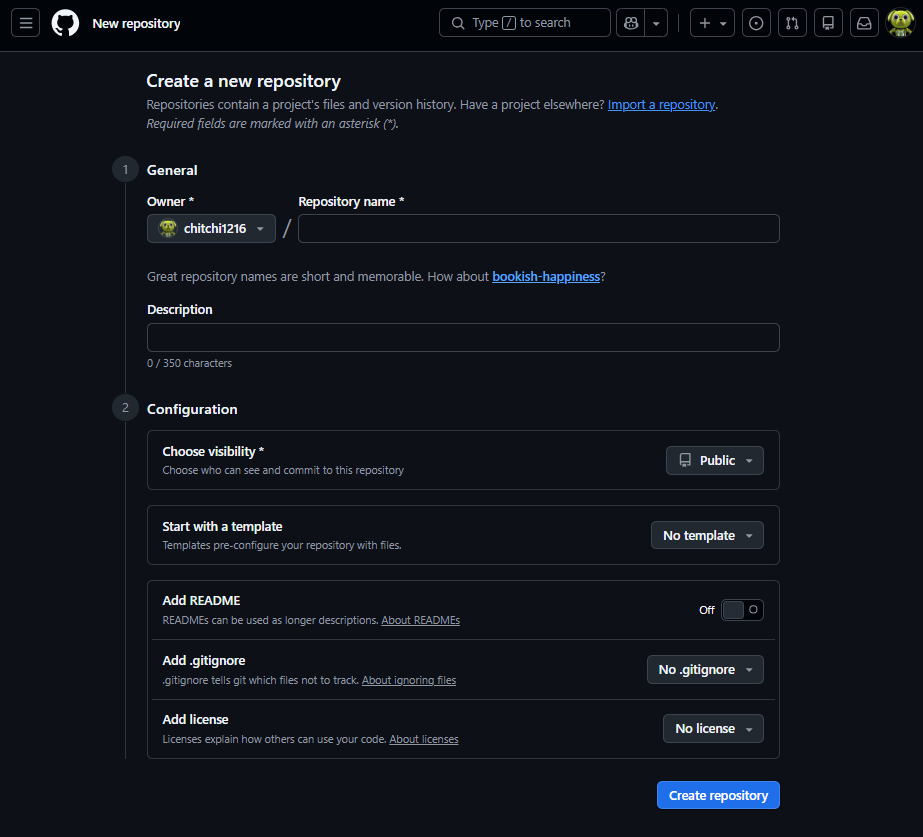
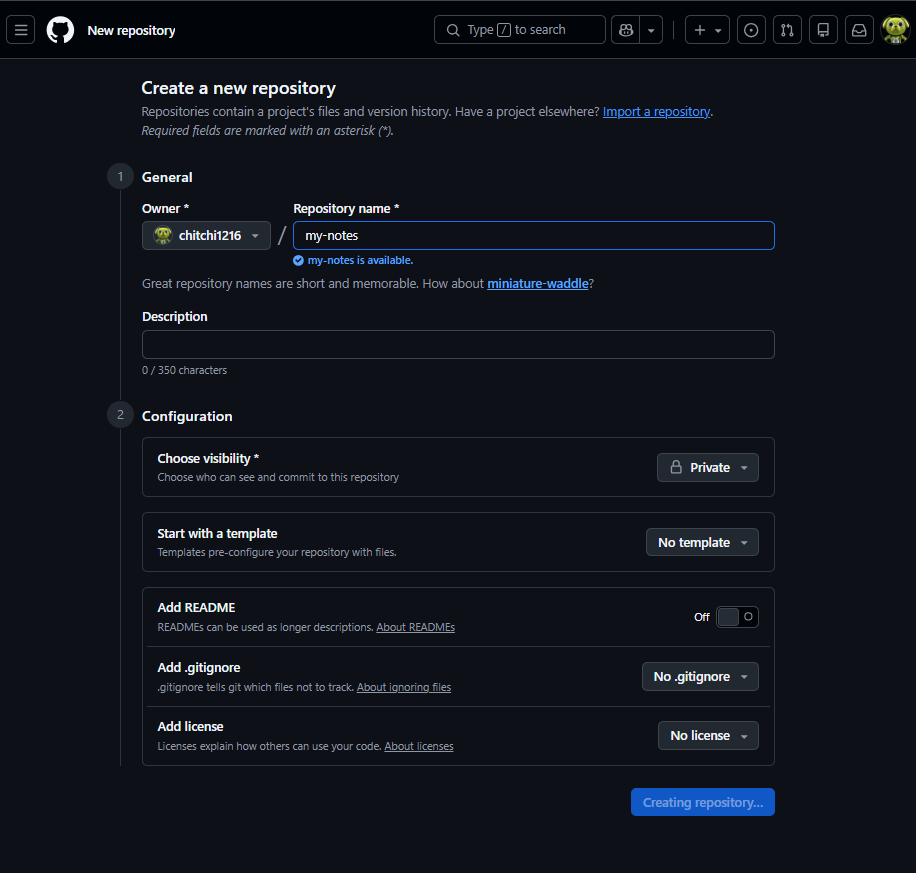
第4章の画面写真を差し替え・追加
- 入力済みの作成画面、作成直後のQuick setup、pushのあとの画面の写真を追加（コミットした人のメールアドレスは塗りつぶし）
- Quick setupの3行のうち git branch -M main は打たなくてよいことを追記
- コミット数の説明を実機の画面に合わせて修正
- 版を0.4.12に更新

Claude-Session: https://claude.ai/code/session_01QYBSeBsVyjWbJLnKnnMHu8

diff --git a/docs/chapter-04.html b/docs/chapter-04.html
@@ -7,7 +7,7 @@
 <link rel="stylesheet" href="style.css">
 </head>
 <body>
-<header class="site"><a class="title" href="index.html">Git と GitHub 入門</a><span class="ver"><!--ver--><a href="https://github.com/chitchi1216/git-github-textbook/blob/main/CHANGELOG.md">版 0.4.11（ドラフト）</a> ・ 2026-10-11 ・ 作成者 <a href="https://github.com/chitchi1216">chitchi1216</a><!--/ver--></span></header>
+<header class="site"><a class="title" href="index.html">Git と GitHub 入門</a><span class="ver"><!--ver--><a href="https://github.com/chitchi1216/git-github-textbook/blob/main/CHANGELOG.md">版 0.4.12（ドラフト）</a> ・ 2026-10-11 ・ 作成者 <a href="https://github.com/chitchi1216">chitchi1216</a><!--/ver--></span></header>
 <main class="wrap">
   <p class="meta">第4章 ／ 目安 70〜90分</p>
   <h1>GitHub と連携する：送る・受け取る</h1>
@@ -137,8 +137,8 @@
     <figcaption>リポジトリの一覧の画面。右側の、青い「<strong>New</strong>」ボタンを押す</figcaption>
   </figure>
   <figure class="shot">
-    <img src="images/ch04-new-repo.png" alt="GitHub の Create a new repository 画面。Repository name、Choose visibility、Add README などの項目がある" onerror="this.parentNode.classList.add('missing')">
-    <figcaption>「Create a new repository」の画面。<code>my-notes</code> と入力し、<strong>「Choose visibility」を「Private」に変えて</strong>、<strong>「Add README」は「Off」のまま</strong>、右下の「Create repository」を押す。（この写真は、公開範囲が初期値の「Public」のままです）</figcaption>
+    <img src="images/ch04-new-repo.png" alt="Create a new repository の画面。名前に my-notes を入力し、Private を選び、Add README は Off のまま" onerror="this.parentNode.classList.add('missing')">
+    <figcaption>入力したあとの画面。<code>my-notes</code> と入力すると、「<strong>my-notes is available.</strong>」（その名前は使えます）と出ます。<strong>「Private」を選び</strong>、<strong>「Add README」は「Off」のまま</strong>で、右下の「Create repository」を押します（押すと「Creating repository…」と表示されます）</figcaption>
   </figure>
   <table>
     <tr><th>画面の表示（英語）</th><th>意味</th></tr>
@@ -154,7 +154,15 @@
     <strong class="title">「Add README」を Off のままにする理由</strong>
     今回は、すでにあるローカルのリポジトリ（<code>my-notes</code>）を、GitHub に送ります。GitHub 側に先にファイルがあると、記録が食い違って、送れなくなります。<strong>空のまま</strong>作ってください。
   </div>
-  <p>作ると、<strong>「…or push an existing repository from the command line」</strong>（既存のリポジトリを、コマンドで送る）という見出しのところに、3行のコマンドが出ます。その1行目の URL を、使います。</p>
+  <p>作ると、次のような画面になります。<strong>「…or push an existing repository from the command line」</strong>（既存のリポジトリを、コマンドで送る）という見出しのところに、3行のコマンドが出ます。その1行目の URL を、使います。</p>
+  <figure class="shot">
+    <img src="images/ch04-quick-setup.png" alt="作成直後のリポジトリの画面。Quick setup と、push an existing repository from the command line のコマンドが表示されている" onerror="this.parentNode.classList.add('missing')">
+    <figcaption>作成直後の画面。名前の横に「<strong>Private</strong>」と出ています。上の「Quick setup」の <strong>HTTPS</strong>（SSH ではなく）が選ばれている URL の、右端のコピーのボタンを押すと、URL をコピーできます。下の「…or push an existing repository from the command line」の3行が、これから打つコマンドです</figcaption>
+  </figure>
+  <div class="box">
+    <strong class="title">画面の3行のうち、打つのは2行（1行目と3行目）</strong>
+    <code>git remote add origin …</code>（1行目）と、<code>git push -u origin main</code>（3行目）を使います。2行目の <code>git branch -M main</code> は、枝の名前を <code>main</code> にするコマンドですが、第3章の設定で、すでに <code>main</code> なので、<strong>打たなくて構いません</strong>（打っても、害はありません）。
+  </div>
 
   <h3>手順3：ローカルと、リモートを結びつける</h3>
   <p>PowerShell で、第3章の <code>my-notes</code> に移動します。そして、GitHub に表示された URL をコピーして、次のコマンドを打ちます（<code>ユーザー名</code> は、自分の GitHub ユーザー名です）。</p>
@@ -201,11 +209,12 @@ nothing to commit, working tree clean</span></pre>
   <p>ブラウザで、<code>https://github.com/ユーザー名/my-notes</code> を開き直して（<code>F5</code> で再読み込み）、次のことを確認してください。</p>
   <ul>
     <li><code>hello.txt</code> がある</li>
-    <li>「<strong>2 Commits</strong>」と書かれている（クリックすると、<code>git log</code> と同じ履歴が見える）</li>
+    <li>名前の横に「<strong>Private</strong>」と出ている</li>
+    <li>「<strong>Commits</strong>」の数が、自分が作ったコミットの数と同じ（第3章と第4章の手順どおりなら、<strong>2 Commits</strong>）。クリックすると、<code>git log</code> と同じ履歴が見える</li>
   </ul>
   <figure class="shot">
     <img src="images/ch04-repo-after-push.png" alt="push 後の GitHub のリポジトリ画面。hello.txt と、コミット数が表示されている" onerror="this.parentNode.classList.add('missing')">
-    <figcaption>push のあとの、GitHub のリポジトリ画面</figcaption>
+    <figcaption><code>push</code> のあとの、GitHub のリポジトリ画面。<code>hello.txt</code> と、最新のコミットのメッセージ、「<strong>3 Commits</strong>」（コミットの数）が見えます（この写真は、コミットを3つ作った人のものです）。記録した人の名前（<code>user.name</code>）が、左上に出るので、第0章の設定が大切です。（メールアドレスは、黒く塗りつぶしてあります）</figcaption>
   </figure>
 
   <h3>手順6：clone で、もう一人の自分を作る</h3>

diff --git a/docs/index.html b/docs/index.html
@@ -7,7 +7,7 @@
 <link rel="stylesheet" href="style.css">
 </head>
 <body>
-<header class="site"><a class="title" href="index.html">Git と GitHub 入門</a><span class="ver"><!--ver--><a href="https://github.com/chitchi1216/git-github-textbook/blob/main/CHANGELOG.md">版 0.4.11（ドラフト）</a> ・ 2026-10-11 ・ 作成者 <a href="https://github.com/chitchi1216">chitchi1216</a><!--/ver--></span></header>
+<header class="site"><a class="title" href="index.html">Git と GitHub 入門</a><span class="ver"><!--ver--><a href="https://github.com/chitchi1216/git-github-textbook/blob/main/CHANGELOG.md">版 0.4.12（ドラフト）</a> ・ 2026-10-11 ・ 作成者 <a href="https://github.com/chitchi1216">chitchi1216</a><!--/ver--></span></header>
 <main class="wrap">
   <h1>Git と GitHub 入門</h1>
   <p>パソコンの基本から始めて、4人でチーム開発ができるようになるための教材です。環境は <strong>Windows 11 の PowerShell とメモ帳</strong>を使います。</p>

diff --git a/docs/chapter-05.html b/docs/chapter-05.html
@@ -7,7 +7,7 @@
 <link rel="stylesheet" href="style.css">
 </head>
 <body>
-<header class="site"><a class="title" href="index.html">Git と GitHub 入門</a><span class="ver"><!--ver--><a href="https://github.com/chitchi1216/git-github-textbook/blob/main/CHANGELOG.md">版 0.4.11（ドラフト）</a> ・ 2026-10-11 ・ 作成者 <a href="https://github.com/chitchi1216">chitchi1216</a><!--/ver--></span></header>
+<header class="site"><a class="title" href="index.html">Git と GitHub 入門</a><span class="ver"><!--ver--><a href="https://github.com/chitchi1216/git-github-textbook/blob/main/CHANGELOG.md">版 0.4.12（ドラフト）</a> ・ 2026-10-11 ・ 作成者 <a href="https://github.com/chitchi1216">chitchi1216</a><!--/ver--></span></header>
 <main class="wrap">
   <p class="meta">第5章 ／ 目安 70〜90分</p>
   <h1>ブランチ：作業を枝分かれさせる</h1>

diff --git a/docs/chapter-03.html b/docs/chapter-03.html
@@ -7,7 +7,7 @@
 <link rel="stylesheet" href="style.css">
 </head>
 <body>
-<header class="site"><a class="title" href="index.html">Git と GitHub 入門</a><span class="ver"><!--ver--><a href="https://github.com/chitchi1216/git-github-textbook/blob/main/CHANGELOG.md">版 0.4.11（ドラフト）</a> ・ 2026-10-11 ・ 作成者 <a href="https://github.com/chitchi1216">chitchi1216</a><!--/ver--></span></header>
+<header class="site"><a class="title" href="index.html">Git と GitHub 入門</a><span class="ver"><!--ver--><a href="https://github.com/chitchi1216/git-github-textbook/blob/main/CHANGELOG.md">版 0.4.12（ドラフト）</a> ・ 2026-10-11 ・ 作成者 <a href="https://github.com/chitchi1216">chitchi1216</a><!--/ver--></span></header>
 <main class="wrap">
   <p class="meta">第3章 ／ 目安 60〜80分</p>
   <h1>Git の基本：記録をつくる</h1>

diff --git a/docs/chapter-01.html b/docs/chapter-01.html
@@ -7,7 +7,7 @@
 <link rel="stylesheet" href="style.css">
 </head>
 <body>
-<header class="site"><a class="title" href="index.html">Git と GitHub 入門</a><span class="ver"><!--ver--><a href="https://github.com/chitchi1216/git-github-textbook/blob/main/CHANGELOG.md">版 0.4.11（ドラフト）</a> ・ 2026-10-11 ・ 作成者 <a href="https://github.com/chitchi1216">chitchi1216</a><!--/ver--></span></header>
+<header class="site"><a class="title" href="index.html">Git と GitHub 入門</a><span class="ver"><!--ver--><a href="https://github.com/chitchi1216/git-github-textbook/blob/main/CHANGELOG.md">版 0.4.12（ドラフト）</a> ・ 2026-10-11 ・ 作成者 <a href="https://github.com/chitchi1216">chitchi1216</a><!--/ver--></span></header>
 <main class="wrap">
   <p class="meta">第1章 ／ 目安 40〜60分</p>
   <h1>パソコンの仕組み</h1>

diff --git a/docs/chapter-00.html b/docs/chapter-00.html
@@ -7,7 +7,7 @@
 <link rel="stylesheet" href="style.css">
 </head>
 <body>
-<header class="site"><a class="title" href="index.html">Git と GitHub 入門</a><span class="ver"><!--ver--><a href="https://github.com/chitchi1216/git-github-textbook/blob/main/CHANGELOG.md">版 0.4.11（ドラフト）</a> ・ 2026-10-11 ・ 作成者 <a href="https://github.com/chitchi1216">chitchi1216</a><!--/ver--></span></header>
+<header class="site"><a class="title" href="index.html">Git と GitHub 入門</a><span class="ver"><!--ver--><a href="https://github.com/chitchi1216/git-github-textbook/blob/main/CHANGELOG.md">版 0.4.12（ドラフト）</a> ・ 2026-10-11 ・ 作成者 <a href="https://github.com/chitchi1216">chitchi1216</a><!--/ver--></span></header>
 <main class="wrap">
   <p class="meta">第0章 ／ 目安 50〜70分</p>
   <h1>はじめに・準備</h1>

diff --git a/docs/chapter-02.html b/docs/chapter-02.html
@@ -7,7 +7,7 @@
 <link rel="stylesheet" href="style.css">
 </head>
 <body>
-<header class="site"><a class="title" href="index.html">Git と GitHub 入門</a><span class="ver"><!--ver--><a href="https://github.com/chitchi1216/git-github-textbook/blob/main/CHANGELOG.md">版 0.4.11（ドラフト）</a> ・ 2026-10-11 ・ 作成者 <a href="https://github.com/chitchi1216">chitchi1216</a><!--/ver--></span></header>
+<header class="site"><a class="title" href="index.html">Git と GitHub 入門</a><span class="ver"><!--ver--><a href="https://github.com/chitchi1216/git-github-textbook/blob/main/CHANGELOG.md">版 0.4.12（ドラフト）</a> ・ 2026-10-11 ・ 作成者 <a href="https://github.com/chitchi1216">chitchi1216</a><!--/ver--></span></header>
 <main class="wrap">
   <p class="meta">第2章 ／ 目安 50〜70分</p>
   <h1>ターミナル入門</h1>

diff --git a/docs/appendix-commands.html b/docs/appendix-commands.html
@@ -7,7 +7,7 @@
 <link rel="stylesheet" href="style.css">
 </head>
 <body>
-<header class="site"><a class="title" href="index.html">Git と GitHub 入門</a><span class="ver"><!--ver--><a href="https://github.com/chitchi1216/git-github-textbook/blob/main/CHANGELOG.md">版 0.4.11（ドラフト）</a> ・ 2026-10-11 ・ 作成者 <a href="https://github.com/chitchi1216">chitchi1216</a><!--/ver--></span></header>
+<header class="site"><a class="title" href="index.html">Git と GitHub 入門</a><span class="ver"><!--ver--><a href="https://github.com/chitchi1216/git-github-textbook/blob/main/CHANGELOG.md">版 0.4.12（ドラフト）</a> ・ 2026-10-11 ・ 作成者 <a href="https://github.com/chitchi1216">chitchi1216</a><!--/ver--></span></header>
 <main class="wrap">
   <p class="meta">付録A</p>
   <h1>よく使うコマンド一覧</h1>

diff --git a/docs/images/README.md b/docs/images/README.md
@@ -32,7 +32,9 @@
 | `ch00-github-signup.png` | GitHub のトップページ（日本語表示）。「GitHub に登録」の入口 |
 | `ch04-repositories-menu.png` | GitHub のダッシュボードで、自分のアイコンのメニューから「Repositories」を選ぶ（第4章。リポジトリ名は塗りつぶし済み） |
 | `ch04-repositories-new.png` | リポジトリの一覧の画面と、青い「New」ボタン（第4章） |
-| `ch04-new-repo.png` | 「Create a new repository」の画面（第4章） |
+| `ch04-new-repo.png` | 「Create a new repository」の画面（名前 `my-notes`、Private、Add README は Off）（第4章） |
+| `ch04-quick-setup.png` | 作成直後のリポジトリの画面（Quick setup。第4章） |
+| `ch04-repo-after-push.png` | `push` のあとの GitHub のリポジトリ画面（メールアドレスは塗りつぶし。第4章） |
 | `ch04-browser-auth.png` | 第4章 | 初めて `git push` したときに開く、ログイン・許可の画面 |
 | `ch04-edit-file.png` | 第4章 | GitHub の画面で `hello.txt` を編集して、「Commit changes」を押す画面 |
 
@@ -57,6 +59,6 @@
 
 まだ必要な画像は、次のとおりです。
 
-- 第4章: `ch04-repo-after-push.png`、`ch04-edit-file.png`
+- 第4章: `ch04-edit-file.png`（GitHub の画面で `hello.txt` を編集する画面）
 
 本文では使っていない画像：`ch01-explorer-extension.png`（拡張子が表示されたエクスプローラー）。

diff --git a/CHANGELOG.md b/CHANGELOG.md
@@ -3,6 +3,10 @@
 版の付け方：`大.中.小`。章を追加したら「中」、誤字や表現の修正は「小」を上げる。
 版を上げるときは、`python3 tools/set_version.py 新しい版` を実行して、全ページのヘッダーを更新する。
 
+## 0.4.12（ドラフト）— 2026-10-11
+
+- 第4章: 実機の写真を差し替え・追加（入力済みの作成画面、作成直後の Quick setup、`push` のあとの画面。メールアドレスは塗りつぶし）。Quick setup の3行のうち、`git branch -M main` は打たなくてよいことを追記。コミット数の説明を、実機の画面に合わせて修正
+
 ## 0.4.11（ドラフト）— 2026-10-11
 
 - 第4章: GitHub でリポジトリを作る手順を、実機の画面に合わせて書き直し。自分のアイコンのメニュー → Repositories → New の流れと、3枚の写真、画面の英語と日本語の対応表を追加。「Add README」は切り替えスイッチで Off のままにすること、公開範囲の初期値は Public なので Private に変えること、を明記
